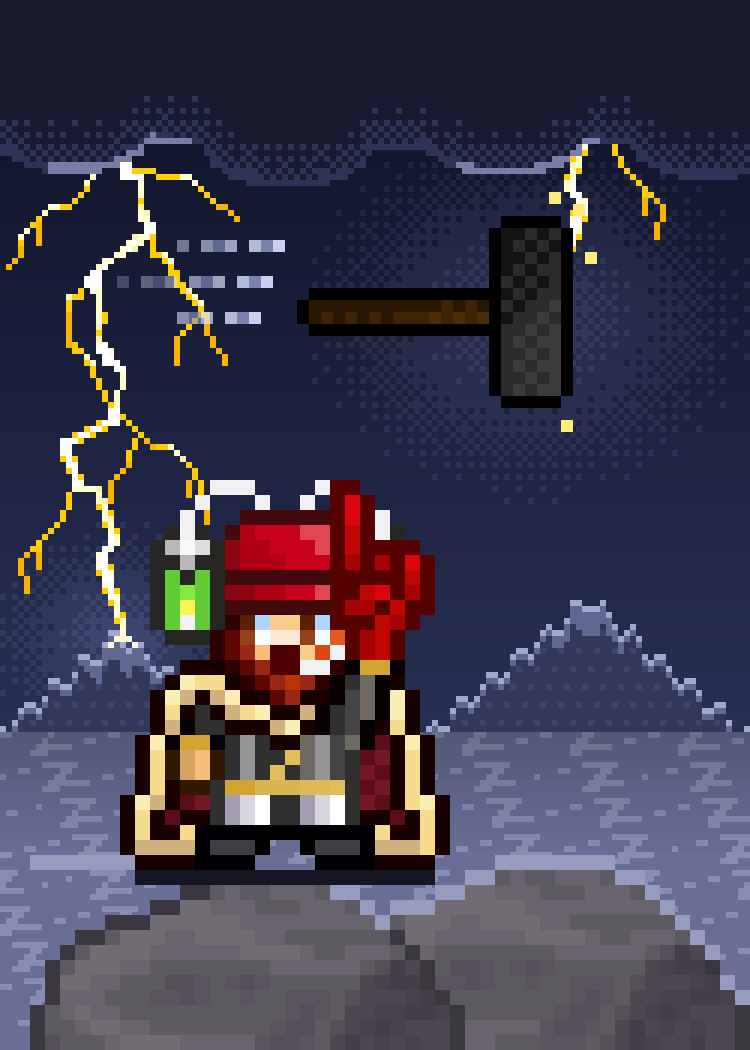
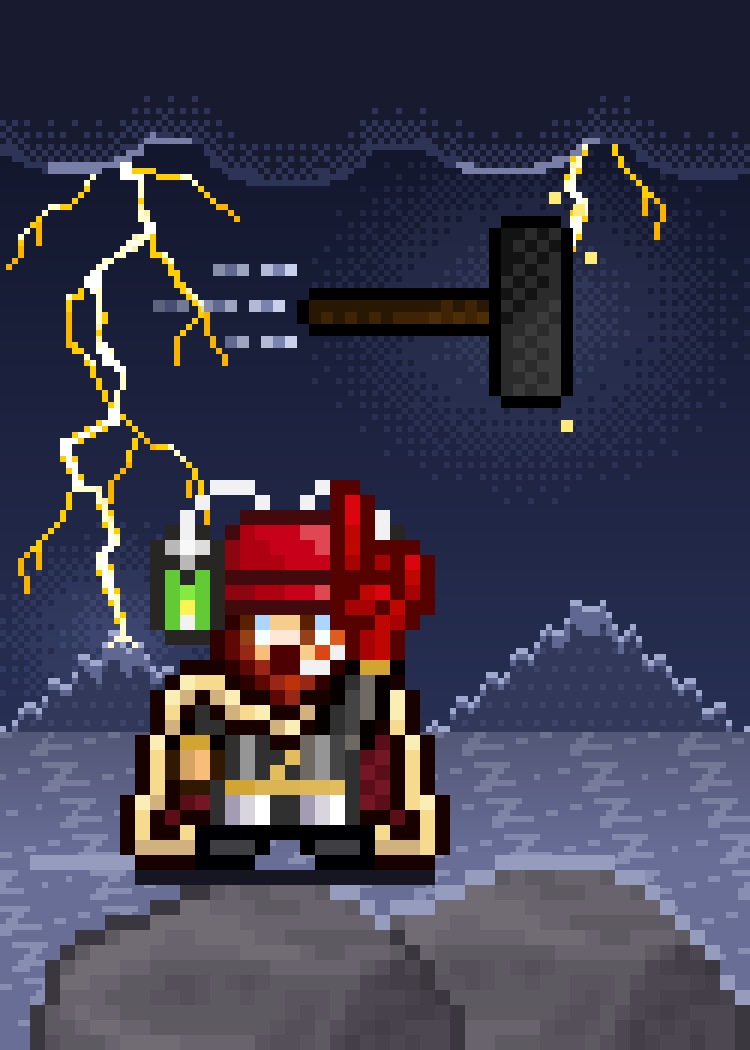
Runde 6: Gegner-Sleeves Zwischenstand
Claude-Session: https://claude.ai/code/session_01TEnvTzH2xD44R6Unjv7vDo

Changed region(s): [[0.1533, 0.2133, 0.3987, 0.3352]]

diff --git a/data/sleeve-proposals/runde6/generator/s25_initiation_rite.py b/data/sleeve-proposals/runde6/generator/s25_initiation_rite.py
@@ -1,0 +1,78 @@
+# -*- coding: utf-8 -*-
+"""25 Initiation Rite – Gegner „Join our Cult!“ (sample-Structure Deck Join our Cult), Held: Klaus, the Cult Leader.
+
+Idee (Porträt/Ruhemoment im Kultkeller): Klaus – der Kapuzenmann mit blauem Haar, rotem Auge und erhobenem
+Opferdolch – steht groß in der Mitte seines Kellergewölbes, vor ihm kniet der braunhaarige Neuling seiner
+Base-Karte („Join our Cult!“). Ringsum stehen seine Kultisten in schwarzen Kutten, an der Wand lodern zwei Fackeln,
+rechts liegt das Buch auf dem Lesepult. Ein fahles rotes Glühen steigt unter den beiden aus dem Boden
+(Decay Magic, ohne Pentagramm), sonst liegt das Gewölbe im Dunkeln.
+
+Quellen (MotiveGrailWar.xcf):
+  Ebene 526 „Kultisten“, rechte Gruppe (Box x 279–297, y 123–154): Klaus (Kapuze, Dolch) mit dem knienden
+      Neuling – genau die Figurengruppe der Base-Karte „Klaus, the Cult Leader“ (Kartenszene Sichtbar #48 = Ebene 738,
+      Lage 222,66; die Karte zeigt diese Gruppe weichgezeichnet und vergrößert, daher kein Pixelvergleich möglich,
+      Form/Farben/Anordnung stimmen überein). Derselbe Kapuzenkopf erscheint auf „Clausss, the No-Nonsense Cultist“.
+  Ebene 532 „Ebene #145“ – Kultkeller mit Fackeln, Lesepult und fünf Kultisten (Ausschnitt x 228–353, y 58–233);
+      der Ritualkreis samt Figuren in der Mitte (x 268–326, y 125–186) wurde mit der Bodenkachel des Gewölbes
+      (16×16, x 282–298, y 108–124, periodisch ausgerichtet) übermalt.
+Selbst gezeichnet: Abdunklung, Fackelschein, rotes Bodenglühen, Bodenschatten.
+
+Skalierung:
+  Hintergrund (Gewölbe, Kultisten, Fackeln, Licht)          – 2× (Raster 125×175)
+  Vordergrund (Klaus + Neuling 18×31 → 108×186, Schatten)   – 6× (Raster 42×59)
+"""
+import math
+import numpy as np
+from ekit_25_30 import *  # noqa
+
+GW = 'MotiveGrailWar'
+klaus = sprite('o25_klaus_group', GW, [526], box=(279, 123, 297, 154))
+
+# ================================================================ 2×: Kultkeller
+hall = layer(GW, 532).copy()
+tile = hall[108:124, 282:298].copy()
+for y in range(125, 186):
+    for x in range(268, 326):
+        hall[y, x] = tile[(y - 108) % 16, (x - 282) % 16]
+X0, Y0 = 228, 58
+bw, bh = grid(2)
+bg = hall[Y0:Y0 + bh, X0:X0 + bw].copy()
+bg[..., 3] = 255
+# Fackeln (Flammen) und Klaus' Standort in 2×-Rasterkoordinaten
+TORCH = [((256 - X0), (96 - Y0)), ((336 - X0), (96 - Y0))]
+KX, KY = 62.5, 118                    # Fußpunkt der Gruppe (Canvas 125, 236)
+rgb = bg[..., :3].astype(float)
+out = np.zeros_like(rgb)
+for y in range(bh):
+    for x in range(bw):
+        c = rgb[y, x]
+        # Grundabdunklung, Fackelschein (warm), rotes Glühen um Klaus
+        lt = 0.42
+        for tx, ty in TORCH:
+            d = math.hypot((x + .5 - tx) / 30, (y + .5 - ty) / 34)
+            lt += 0.5 * math.floor(max(0, 1 - d) ** 1.3 * 4 + bay(x, y)) / 4
+        d = math.hypot((x + .5 - KX) / 34, (y + .5 - (KY - 22)) / 40)
+        rg = math.floor(max(0, 1 - d) ** 1.2 * 4 + bay(x, y)) / 4
+        c = c * min(lt, 1.0) + np.array([120, 10, 16]) * rg * .45
+        out[y, x] = c
+bg[..., :3] = out.clip(0, 255).astype(np.uint8)
+# Flammen selbst nicht abdunkeln (Originalpixel der Fackeln zurück)
+for tx, ty in TORCH:
+    for y in range(ty - 8, ty + 3):
+        for x in range(tx - 6, tx + 6):
+            src = hall[Y0 + y, X0 + x, :3].astype(int)
+            if src[0] > 180 and src[0] > src[2] + 60:
+                bg[y, x, :3] = src
+
+# ================================================================ 6×: Klaus mit Neuling
+fw, fh = grid(6)                         # 42×59
+fg = rgba(fw, fh)
+GX = 21 - klaus.shape[1] // 2            # mittig (Canvas 72–180)
+GB = 39                                  # unterste Zeile (Canvas 234–239)
+for x in range(GX + 2, GX + klaus.shape[1] - 2):
+    for dy in (0, 1):
+        if bay(x, GB + dy) < (.75 if dy == 0 else .35):
+            setp(fg, x, GB + dy, (18, 4, 8), 170)
+put(fg, klaus, GX, GB - klaus.shape[0] + 1)
+
+print(finish([(bg, 2), (fg, 6)], '25_initiation_rite.png'))

diff --git a/data/sleeve-proposals/runde6/generator/s35_pyre_of_the_warband.py b/data/sleeve-proposals/runde6/generator/s35_pyre_of_the_warband.py
@@ -6,7 +6,7 @@ Idee: Nacht im Krater des Chaorc-Lagers (ORKLAGER seiner Kartenszene). Vorn steh
 Kriegsbanner mit dem Flammenauge; hinter ihm lodert das große Opferfeuer des Lagers (Pyre Grill Master). Am Feuer
 wartet links ein rot vermummter Chaorc, rechts steht Asriel, the Sapling Sacrificer (Cover-Karte des Decks) mit
 seinem blutigen Opfermesser – Opfer bringen, damit neue Chaorcs und Dämonen kommen. Vorn wie auf der Heldenkarte die
-brennende Kiste und der Geldsack; oben auf dem Kraterrand die schrägen Palisadenpfähle.
+brennende Kiste und der Geldsack, rechts ein Kistenstapel des Lagers.
 
 Quellen:
   MotiveHawaii.xcf Ebene 137 „Calamitustk-Kopie“ + 133 „Ebene #53“ (Banner) – Base-Calamitusk, geprüft gegen Szene
@@ -14,13 +14,13 @@ Quellen:
                    verdeckt, Figur sonst pixelgleich). 138 „Calamitustk“ weicht in 152 px ab (nicht verwendet).
                    Ebene 123 (Flammen) + 130 (Scheitholz-Kreuz, rechter Teil) – großes Lagerfeuer der Pyre-Grill-Karte.
                    Ebene 129 „Ebene #60“ – rot vermummter Chaorc. Ebene 139 (Feuer) + 141 „ORKLAGER“ (Kiste, Geldsack,
-                   Palisadenpfähle: 130 linker Teil) – wie auf der Heldenkarte.
+                   Kistenstapel) – wie auf der Heldenkarte.
                    Ebene 269 „Ebene #4“ – Kachel Lagerboden (16×16) und Kraterhang (16×16).
   MotiveGrailWar.xcf Ebene 156 „Asriel“ – Asriel mit blutigem Messer (Szene 151, Karte Asriel, Lage 256,81).
 Selbst gezeichnet: Nachthimmel mit Feuerschein, Kraterrand-Kante, Lichtschein, Bodenschatten.
 
 Skalierung (Tiefenebenen):
-  Hintergrund: Himmel, Kraterhang, Palisade, Boden, Feuer, Chaorc, Asriel   – 2× (125×175)
+  Hintergrund: Himmel, Kraterhang, Boden, Feuer, Chaorc, Asriel, Kisten     – 2× (125×175)
   Mittelgrund: brennende Kiste, Geldsack                                    – 3× (84×117)
   Vordergrund: Calamitusk mit Banner                                       – 4× (63×88); 152×208 px
 """
@@ -83,6 +83,13 @@ glow(bg, PX, PB - 18, 60, (255, 120, 40), 0.5, ry=46)
 glow(bg, PX, PB + 4, 52, (255, 150, 60), 0.35, ry=30)
 shade_ellipse(bg, PX, PB - 1, 26, 2.2, 0.55)
 put(bg, pyre, PX - pyre.shape[1] // 2, PB - pyre.shape[0])
+# Kistenstapel des Lagers rechts auf halber Tiefe
+crate = cached('o35_crate', lambda: parts(layer(H, 141), dil=1)[4])
+crD = mul(crate, (0.62, 0.52, 0.46), (14, 4, 0))
+shade_ellipse(bg, 98, 110, 15, 1.8, 0.5)
+put(bg, crD, 84, 110 - 16)
+put(bg, crD, 98, 110 - 16)
+put(bg, crD, 91, 110 - 32)
 # Chaorc links, Asriel rechts am Feuer
 for s, cx in ((chaorc, 26), (asriel, 99)):
     shade_ellipse(bg, cx, PB - 1, s.shape[1] / 2 + 1, 1.5, 0.5)

diff --git a/data/sleeve-proposals/runde6/generator/s10_hammerfall.py b/data/sleeve-proposals/runde6/generator/s10_hammerfall.py
@@ -156,10 +156,10 @@ hm = hm if hm[:, -4:, 3].sum() > hm[:, :4, 3].sum() else flip(hm)
 hcx, hcy = HAM[0] * 2 / 4, HAM[1] * 2 / 4             # Hammerkopf-Mitte im 4×-Raster
 hx0 = int(round(hcx - hm.shape[1] + 4)); hy0 = int(round(hcy - hm.shape[0] / 2))
 # Fahrtstreifen hinter dem Stiel (drei kurze Striche, hell/dunkel) – der Hammer ist geworfen und fliegt
-for k, (dy, ln) in enumerate([(2, 9), (5, 13), (8, 8)]):
+for k, (dy, ln) in enumerate([(4, 7), (7, 11), (10, 6)]):
     yy = hy0 + dy
     for i in range(ln):
-        xx = hx0 - 2 - i - k
+        xx = hx0 - 1 - i - (k % 2)
         if 0 <= xx < W4 and 0 <= yy < H4 and i % 4 != 3:
             mid[yy, xx, :3] = (220, 228, 255) if i % 2 == 0 else (140, 150, 196)
             mid[yy, xx, 3] = max(60, 230 - i * 14)
